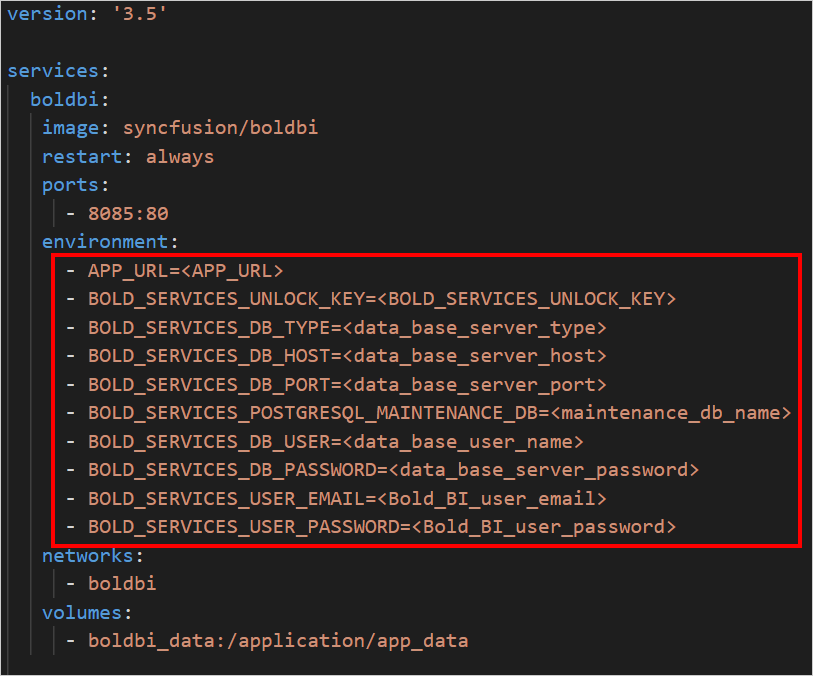
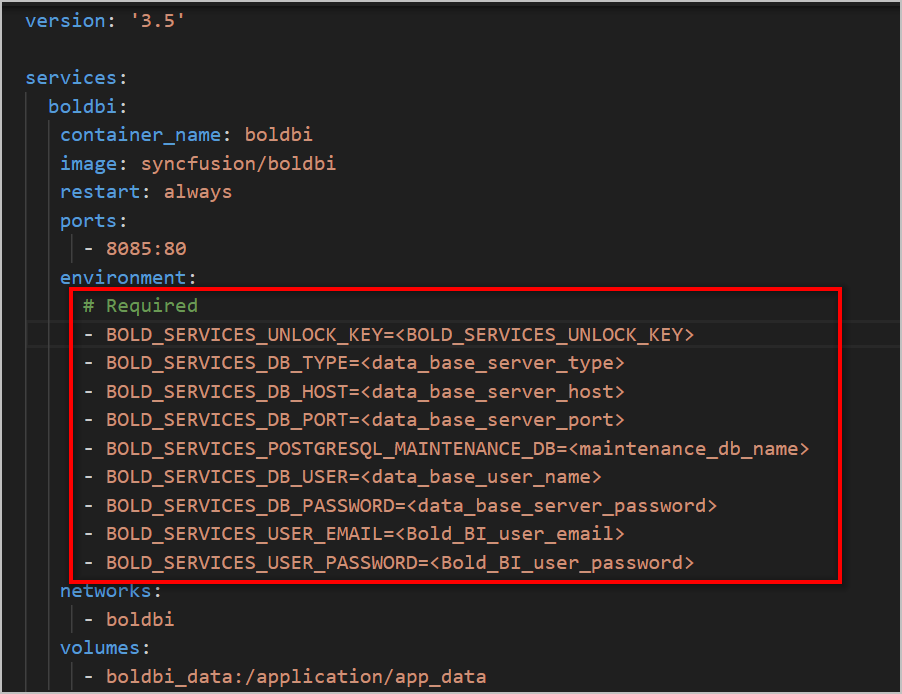
APP_URL documentation changes

diff --git a/docs/how-to-use-host-path-as-persistent-volume-for-bold-bi-deployment.md b/docs/how-to-use-host-path-as-persistent-volume-for-bold-bi-deployment.md
@@ -2,49 +2,54 @@
 
 You can store the application data on your host machine to make the Bold BI container a stateful application. The Bold BI application will read and write the data on your host machine. In the following section, we will learn how to use the host path as a persistent volume for Bold BI deployment.
 
-1. When deploying the Bold BI application using Docker or Docker compose, you can pass the host path as a persistent volume. Here is an example using the Docker Command.
+## Run single container `Bold BI` via `docker-compose`
+
+ This quick-start guide demonstrates how to use Compose to set up and run Bold BI. Before starting, make sure you have installed [Compose](https://docs.docker.com/compose/install/)
+
+### Define the Project
+
+1. Download the Docker Compose file by using the following command.
    
    ```sh
-     docker run --name boldbi -p 80:80 -p 443:443 \
-     -e APP_URL=<app_url> \
-     -v <host_path_for_appdata_files>:/application/app_data \
-     -v <host_path_for_nginx_config>:/etc/nginx/sites-available \
-     -d syncfusion/boldbi:<tag>
+   curl -o docker-compose.yml "https://raw.githubusercontent.com/boldbi/boldbi-docker/main/deploy/single-container-with-host-path/docker-compose.yml"
    ```
-  
-    <b>Persisting application app_data</b> </br></br>
-     
-    Replace the `<host_path_for_appdata_files>` value with a directory path from your host machine in the advanced docker run command.
+2. Open the Docker Compose file, fill the BOLD_SERVICES_UNLOCK_KEY value, and save it. You can download the offline Bold BI unlock key from the [downloads](https://www.boldbi.com/account) page.
 
-   > **For example**<br/>
-   > Windows: `-v D:/boldbi/app_data:/application/app_data`<br/>
-   > Linux: `-v /home/boldbi/app_data:/application/app_data`
+   ![docker-compose-variable](images/docker-compose-variable.png)
 
-   <b>Nginx configuration</b>
+3. Allocate a directory in your host machine to store the shared folders for applications’ usage. Replace the directory path with `<host_path_boldbi_data>` and `<host_path_db_data>` in **docker-compose.yml** file.
 
-   Replace the `<host_path_for_nginx_config>` value with a directory path from your host machine in the advanced docker run command.
+   For example, <br><b>Windows:</b> `device: 'D:/boldbi/boldbi_data'` and `device: 'D:/boldbi/db_data'` <br><b>Linux:</b> `device: '/var/boldbi/boldbi_data'` and `device: '/var/boldbi/db_data'`
+   
+      ![Host path](images/host-path-volume.png)
+      > **Note:**
+      > The docker volumes `boldbi_data` and `db_data` persists data of Bold BI and PostgreSQL respectively. [Learn more about docker volumes](https://docs.docker.com/storage/volumes/)
 
-   > **For example**<br/>
-   > Windows: `-v D:/boldbi/nginx:/etc/nginx/sites-available`<br/>
-   > Linux: `-v /home/boldbi/nginx:/etc/nginx/sites-available`
-
-   <b>Example:</b>
+3. Run the command below. This command will start the Bold BI and Postgres SQL containers and display the Bold BI logs to provide information about the installation status of the Bold BI application.
+   
    ```sh
-    docker run --name boldbi -p 80:80 -p 443:443 \
-     -e APP_URL=https://example.com \
-     -v D:/boldbi/app_data:/application/app_data \
-     -v D:/boldbi/nginx:/etc/nginx/sites-available \
-     -d syncfusion/boldbi:7.5.13
-   ``` 
-3. After running the command, access the Bold BI App by entering `APP_URL` in a browser. At this point, Bold BI should be running in `<app_url>` (as appropriate)
+   docker-compose up -d; docker-compose logs -f boldbi
+   ```
+   ![docker-compose-command](images/docker-compose-up.png)
 
-   ![docker-compose-startup](/docs/images/docker-startup.png)
- 
-    > **Note:**
-   > The BoldBI site is not immediately available because the containers are still being initialized and may take a couple of minutes for the first load.
+4. Now, access the Bold BI application by entering the URL as `http://localhost:8085` or `http://host-ip:8085` in the browser. When opening this URL in the browser, it will configure the application startup in the background and display the page below within a few seconds. The default port number mentioned in the compose file is 8085. If you are making changes to the port number, then you need to use that port number for accessing the Bold BI application.
+   
+   ![docker-compose-startup](images/docker-startup.png)
 
-**Application Startup**
+   > Note: Don't use `http://127.0.0.1` with `port` to access the application.
+
+
+### Application Startup
 
 Configure the Bold BI On-Premise application startup to use the application. Please refer the following link for more details on configuring the application startup.
 
 https://help.boldbi.com/embedded-bi/application-startup
+
+> **Note:**
+> To use the above configured PostgreSQL server in Bold BI please use `pgdb` as the PostgreSQL server name.
+
+### Shutdown and cleanup
+
+The command `docker-compose down` removes the containers and default network, but preserves the volumes of Bold BI and PostgreSQL. <br /><br />
+The command `docker-compose down --volumes` removes the containers, default network, and all the volumes.
+

diff --git a/docs/single-container.md b/docs/single-container.md
@@ -24,16 +24,14 @@
 
       services:
         boldbi:
-        image: syncfusion/boldbi
-        restart: always
-        ports:
-          - 8085:80
-        # environment:
-          # - APP_URL=<app_url>
-        networks:
-          - boldbi
-        volumes:
-          - boldbi_data:/application/app_data
+          image: syncfusion/boldbi
+          restart: always
+          ports:
+            - 8085:80
+          networks:
+            - boldbi
+          volumes:
+            - boldbi_data:/application/app_data
           
         pgdb:
           image: postgres
@@ -62,18 +60,7 @@
             o: 'bind'
             device: '<host_path_db_data>'
       ```
-  4. Replace `<app_url>` with your DNS or IP address, by which you want to access the application.
-    
-      For example, <br/>
-          `http://example.com` <br/>
-          `https://example.com` <br/>
-          `http://<public_ip_address>` <br/>
-
-      > **Note:**
-      > * If you are using the IP address for the Base URL, make sure you are using the public IP of the machine instead of internal IP or local IP address. Applications can communicate with each other using the public IP alone. Host machine IP will not be accessible inside the application container.
-      > * Provide the HTTP or HTTPS scheme for APP_BASE_URL value.
-
-  5. You can also change the Port number other than `8085`
+  4. You can also change the Port number other than `8085`.
 
   6. Allocate a directory in your host machine to store the shared folders for applications’ usage. Replace the directory path with `<host_path_boldbi_data>` and `<host_path_db_data>` in **docker-compose.yml** file.
 
@@ -106,11 +93,11 @@ Creating my_boldbi_db_1     ... done
 ```
 ### Bring up Bold BI in a web browser
 
-At this point, Bold BI should be running in `<app_base_url>:8085` (as appropriate)
+At this point, you can access the Bold BI application by entering the URL as `http://localhost:8085` or `http://host-ip:8085` in the browser. When opening this URL in the browser, it will configure the application startup in the background and display the page below within a few seconds. The default port number mentioned in the compose file is 8085. If you are making changes to the port number, then you need to use that port number for accessing the Bold BI application.
+   
+   ![docker-compose-startup](images/docker-startup.png)
 
-> **Note:**
-> The BoldBI site is not immediately available on port 8085 because the containers are still being initialized and may take a couple of minutes for the first load.
-
+   > Note: Don't use `http://127.0.0.1` with `port` to access the application.
 ### Application Startup
 
 Configure the Bold BI On-Premise application startup to use the application. Please refer the following link for more details on configuring the application startup.

diff --git a/docs/how-to-deploy-bold-bi-using-existing-db-server.md b/docs/how-to-deploy-bold-bi-using-existing-db-server.md
@@ -7,18 +7,11 @@ In the following section, we are going to run the Bold BI application by passing
    ```sh
    curl -o docker-compose.yml "https://raw.githubusercontent.com/boldbi/boldbi-docker/main/deploy/single-container-with-env-variable/docker-compose.yml"
    ```
-3. Open the docker compose file and fill the mandatory fields - <b>APP_BASE_URL</b>, <b>Unlock Key</b> and <b>Database details</b>
+3. Open the docker compose file and fill the mandatory fields - <b>Unlock Key</b> and <b>Database details</b>
 
     ![docker-compose-database-detail](/docs/images/database-env-value.png)
 
-      <b>APP_BASE_URL Guidance:</b>
-      * Provide the HTTP scheme for APP_BASE_URL value.
-      For example, <br/>
-          `http://example.com` <br/>
-          `http://<public_ip_address>` <br/>
-      * For `Windows` and `MacOS` use either http://host.docker.internal or http://localhost. Docker Desktop provides `host.docker.internal` and `gateway.docker.internal` DNS for communication between docker applications and host machine. Please make sure that the host.docker.internal DNS has your IPv4 address mapped in your hosts file on Windows(C:\Windows\System32\drivers\etc\hosts).
-      * For `Linux` use the Machine Public IP address as the value for APP_URL with the HTTP scheme.
- 
+
    <b>Environment variable Usage:</b>
 
 
@@ -46,9 +39,11 @@ In the following section, we are going to run the Bold BI application by passing
       > **Note:**
       > The docker volumes `boldservices_data` and `db_data` persists data of Bold BI and PostgreSQL respectively. [Learn more about docker volumes](https://docs.docker.com/storage/volumes/)
       
-5. After running the command, access the Bold BI App by entering APP_URL in a browser.At this point, Bold BI should be running in `<app_base_url>:8085` (as appropriate)
+5. Now, access the Bold BI application by entering the URL as `http://localhost:8085` or `http://host-ip:8085` in the browser. When opening this URL in the browser, it will configure the application startup in the background and display the page below within a few seconds. The default port number mentioned in the compose file is 8085. If you are making changes to the port number, then you need to use that port number for accessing the Bold BI application.
+   
+   ![docker-compose-startup](images/docker-startup.png)
 
-   ![docker-compose-startup](/docs/images/docker-startup.png)
+   > Note: Don't use `http://127.0.0.1:8085` to access the application.
 
 
    > **Note:**

diff --git a/docs/how-to-deploy-bold-bi-and-configure-startup-manually.md b/docs/how-to-deploy-bold-bi-and-configure-startup-manually.md
@@ -8,19 +8,7 @@ In the following section, we will deploy a single container Bold BI application 
    
    ```sh
    curl -o docker-compose.yml "https://raw.githubusercontent.com/boldbi/boldbi-docker/main/deploy/single-container/docker-compose.yml"
-   ```
-3. Open the docker compose file and fill the mandatory field - <b>APP_URL</b>
-
-    ![docker-compose-database-detail](/docs/images/single-container-app-url.png)
-
-      <b>APP_URL Guidance:</b>
-      * Provide the HTTP scheme for APP_BASE_URL value.
-      For example, <br/>
-          `http://example.com` <br/>
-          `http://<public_ip_address>` <br/>
-      * For `Windows` and `MacOS` use either http://host.docker.internal or http://localhost. Docker Desktop provides `host.docker.internal` and `gateway.docker.internal` DNS for communication between docker applications and host machine. Please make sure that the host.docker.internal DNS has your IPv4 address mapped in your hosts file on Windows(C:\Windows\System32\drivers\etc\hosts).
-      * For `Linux` use the Machine Public IP address as the value for APP_URL with the HTTP scheme.
- 
+   ``` 
 4. Run docker compose up command.
    
    ```sh
@@ -32,13 +20,9 @@ In the following section, we will deploy a single container Bold BI application 
       > **Note:**
       > The docker volumes `boldbi_data` persists data of Bold BI. [Learn more about docker volumes](https://docs.docker.com/storage/volumes/)
       
-5. After running the command, access the Bold BI App by entering `APP_URL` in a browser. At this point, Bold BI should be running in `<app_url>:8085` (as appropriate)
+3. Now, access the Bold BI application by entering the URL as `http://localhost:8085` or `http://host-ip:8085` in the browser. When opening this URL in the browser, it will display the License page within a few seconds. The default port number mentioned in the compose file is 8085. If you are making changes to the port number, then you need to use that port number for accessing the Bold BI application.
+      ![License Page](images/license-page.png)
 
-   ![docker-compose-startup](/docs/images/docker-startup.png)
-
-
-   > **Note:**
-   > The BoldBI site is not immediately available on port 8085 because the containers are still being initialized and may take a couple of minutes for the first load.
 
 **Application Startup**
 

diff --git a/README.md b/README.md
@@ -72,6 +72,7 @@ The above Bold BI image can be deployed using Docker or Docker Compose. In the f
    
    ![docker-compose-startup](docs/images/docker-startup.png)
 
+   > Note: Don't use `http://127.0.0.1` with `port` to access the application.
 # How to Deploy Bold BI using Advanced Configuration?
 
 In this section, you will learn how to run the Bold BI application using advanced configurations such as configuring Bold BI using an existing DB server, using a host directory as a persistent volume, configuring startup manually, configuring an SSL certificate, and running a multi-container BI application.
